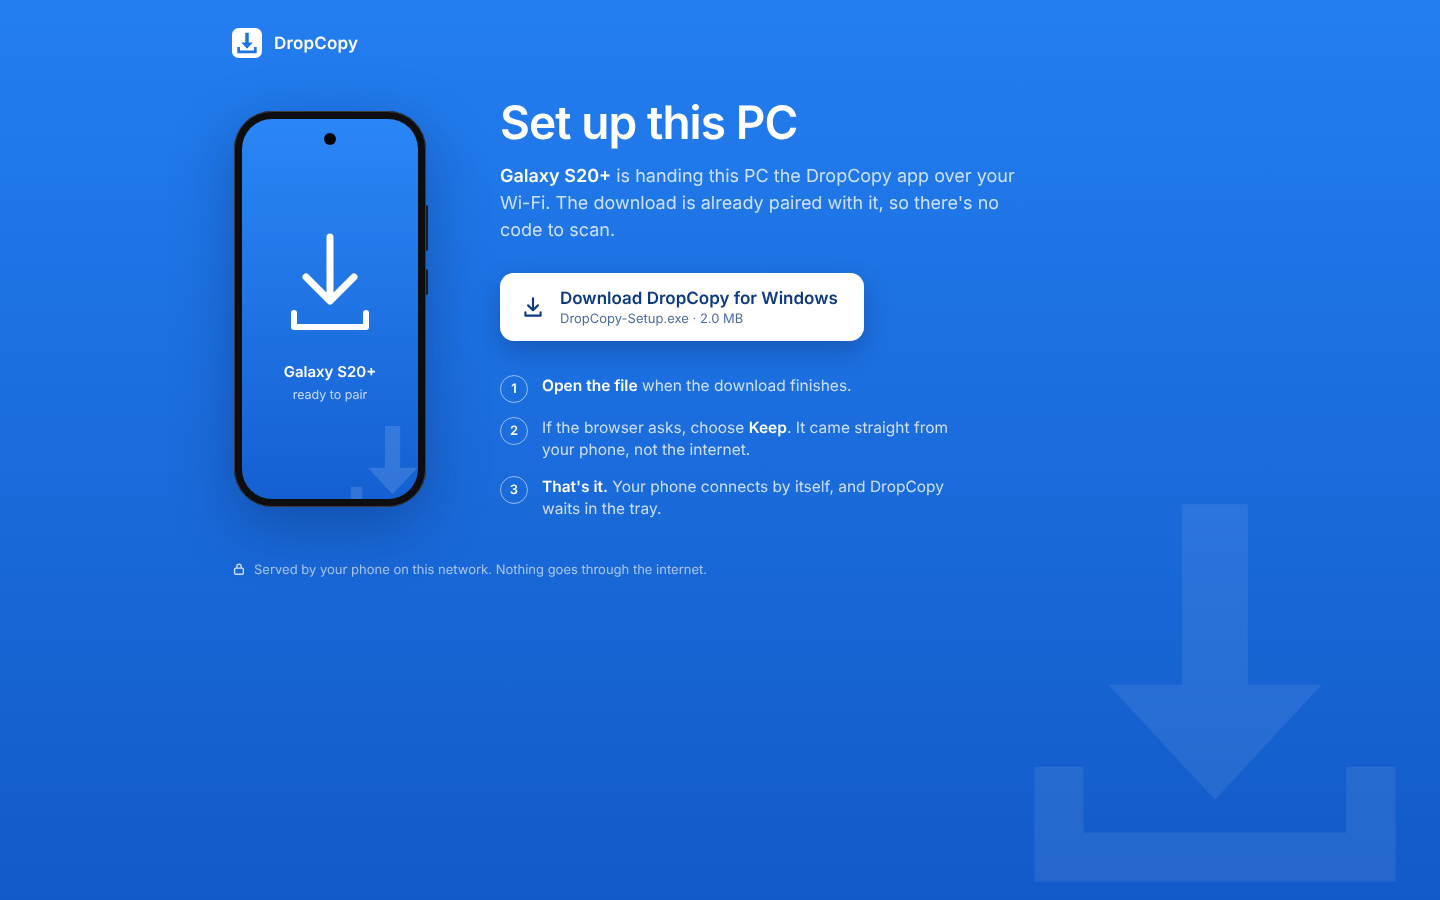
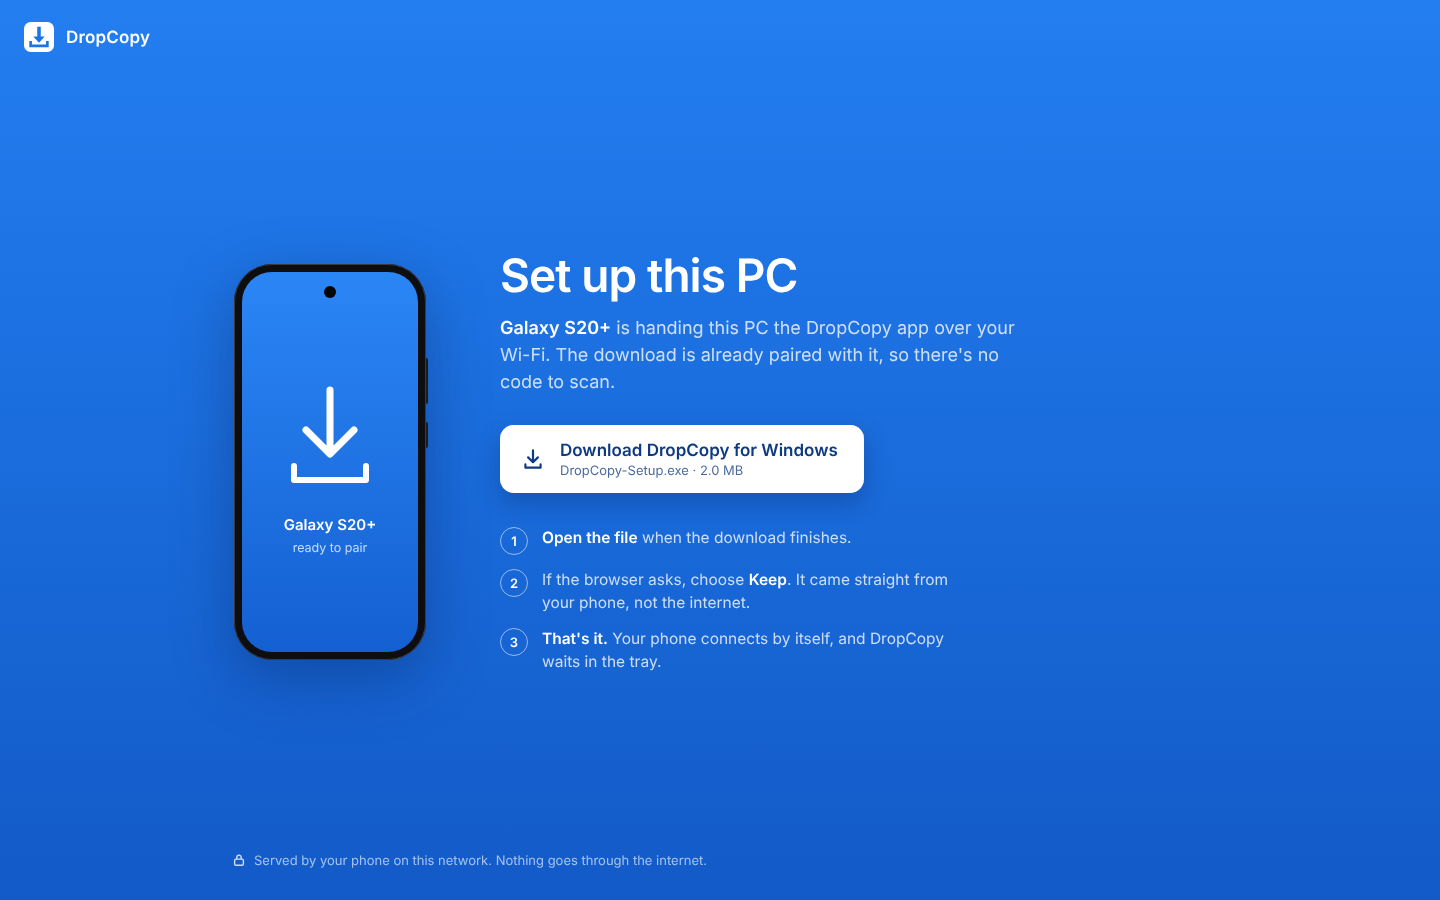
v0.5.1: phone-first PC setup, setup page, user preferences
- The logo on the phones' blue screens is small, whole and inset in the
  bottom-right corner (a test holds it there, never cut by an edge).
- The setup page: no faded logos; "DropCopy" in the window's top-left
  corner; content centred.
- docs/user-preferences.md: the owner's design and working decisions.
- Stress tests delete their folders when they finish (a full disk from
  leftover 512 MB test videos failed a run).
- Checked under Wine end to end: the phone side served the real Windows
  app, a fresh PC ran it and took the phone's key with no code, showed
  the reconnect phone, and a photo from the phone arrived.

Claude-Session: https://claude.ai/code/session_01BFAQV6g6aancpsLPcvuigK

diff --git a/android/app/src/main/assets/pc-setup.html b/android/app/src/main/assets/pc-setup.html
@@ -24,17 +24,16 @@
     -webkit-font-smoothing: antialiased;
     overflow-x: hidden;
   }
-  /* The logo, large and faint in the corner, as in the app's setup window. */
-  .corner {
-    position: fixed; right: -6vmin; bottom: -8vmin;
-    width: 62vmin; height: 62vmin; opacity: 0.08; pointer-events: none;
-  }
   .page {
-    position: relative; min-height: 100%;
+    position: relative; min-height: 100vh;
     display: flex; flex-direction: column;
-    max-width: 1040px; margin: 0 auto; padding: 28px 32px 32px;
+    max-width: 1040px; margin: 0 auto; padding: 72px 32px 32px; /* room under the corner name */
   }
-  header { display: flex; align-items: center; gap: 12px; font-size: 17px; font-weight: 600; letter-spacing: 0.01em; }
+  /* The app's name in the window's top-left corner, a small gap from the edges. */
+  header {
+    position: fixed; top: 22px; left: 24px; z-index: 1;
+    display: flex; align-items: center; gap: 12px; font-size: 17px; font-weight: 600; letter-spacing: 0.01em;
+  }
   header svg { width: 30px; height: 30px; }
   main {
     flex: 1; display: grid; grid-template-columns: auto 1fr; gap: 72px;
@@ -84,11 +83,6 @@
 </style>
 </head>
 <body>
-  <!-- The app's mark: an arrow dropping into a tray (same shapes as the app icon). -->
-  <svg class="corner" viewBox="20 19 68 68" aria-hidden="true">
-    <path fill="#fff" d="M50,30h8v22h9l-13,14l-13,-14h9z"/><path fill="#fff" d="M32,62h6v8h32v-8h6v14h-44z"/>
-  </svg>
-
   <div class="page">
     <header>
       <svg viewBox="20 19 68 68" aria-hidden="true">
@@ -99,7 +93,7 @@
     </header>
 
     <main>
-      <!-- The phone, as drawn in the app: dark body, blue screen, the mark in its corner. -->
+      <!-- The phone, as drawn in the app: dark body, blue screen. -->
       <svg class="phone" viewBox="0 0 196 400" role="img" aria-label="{{PHONE}}">
         <defs>
           <linearGradient id="scr" x1="0" y1="0" x2="0" y2="1"><stop offset="0" stop-color="#2B86F5"/><stop offset="1" stop-color="#1460D2"/></linearGradient>
@@ -111,10 +105,6 @@
         <rect x="2.5" y="2.5" width="191" height="395" rx="37.5" fill="none" stroke="#3A3A40"/>
         <g clip-path="url(#clip)">
           <rect x="10" y="10" width="176" height="380" fill="url(#scr)"/>
-          <g opacity=".13" transform="translate(96 296) scale(1.9)">
-            <path fill="#fff" d="M50,30h8v22h9l-13,14l-13,-14h9z" transform="translate(-20 -19)"/>
-            <path fill="#fff" d="M32,62h6v8h32v-8h6v14h-44z" transform="translate(-20 -19)"/>
-          </g>
           <!-- A file dropping toward the PC. -->
           <g class="arrow" fill="none" stroke="#fff" stroke-width="7" stroke-linecap="round" stroke-linejoin="round">
             <path d="M98 128v62M74 168l24 24 24-24"/>

diff --git a/pc/src/setup_window.rs b/pc/src/setup_window.rs
@@ -68,8 +68,9 @@ pub fn logo_screen_faded(w: u32, h: u32, fade: f32) -> RgbaImage {
     let (fw, fh) = (w as f32, h as f32);
     // In the bottom-right corner, running off the edge, as in the big window: clear of whatever is
     // drawn in the middle (dots, the check, text). The glyph spans 32..76 of its 108-unit canvas.
-    let size = fw * 1.15;
-    let (ox, oy) = (fw * 1.08 - size * 76.0 / 108.0, fh + fw * 0.04 - size * 76.0 / 108.0);
+    // Small and whole, never cut by the screen's edge: glyph 34% of the width, inset from the corner.
+    let size = fw * 0.34 * 108.0 / 44.0;
+    let (ox, oy) = (fw * 0.88 - size * 76.0 / 108.0, fh - fw * 0.12 - size * 76.0 / 108.0);
     RgbaImage::from_fn(w, h, |x, y| {
         let g = y as f32 / fh;
         let c = over([0x23 as f32, 0x7E as f32, 0xF0 as f32], [0x12 as f32, 0x5A as f32, 0xC8 as f32], g);
@@ -491,6 +492,25 @@ mod imp {
 #[cfg(test)]
 mod tests {
     use super::*;
+
+    #[test]
+    fn the_screen_logo_sits_whole_inside_the_corner() {
+        for (w, h) in [(540u32, 1200u32), (140, 300), (18, 38)] {
+            let img = logo_screen_faded(w, h, 0.5);
+            let base = logo_screen_faded(w, h, 0.0);
+            let (mut x0, mut y0, mut x1, mut y1) = (w, h, 0, 0);
+            for (x, y, p) in img.enumerate_pixels() {
+                if p[0] != base.get_pixel(x, y)[0] {
+                    (x0, y0, x1, y1) = (x0.min(x), y0.min(y), x1.max(x), y1.max(y));
+                }
+            }
+            if w < 40 {
+                continue; // the tiny menu phone: a hint, too few pixels to measure
+            }
+            assert!(x1 < w - w / 20 && y1 < h - w / 20, "{w}x{h}: logo reaches the edge ({x1},{y1})");
+            assert!(x0 > w / 2 && y0 > h / 2, "{w}x{h}: logo should be in the bottom-right corner ({x0},{y0})");
+        }
+    }
 
     #[test]
     fn names_the_phone_when_it_says() {

diff --git a/android/app/src/test/java/dev/dropcopy/AppTest.java b/android/app/src/test/java/dev/dropcopy/AppTest.java
@@ -268,6 +268,7 @@ public class AppTest {
             java.net.HttpURLConnection page = (java.net.HttpURLConnection) new java.net.URL("http://127.0.0.1:" + PcSetup.PORT + "/").openConnection();
             String html = new String(readAll(page.getInputStream()), "UTF-8");
             assertTrue(html.contains("href=\"/DropCopy-Setup.exe\""));
+            assertTrue("no faded logo on the page (the user's call)", !html.contains("class=\"corner\"") && !html.contains("opacity=\".13\""));
             assertTrue("phone name filled in, escaped", html.contains("Galaxy &lt;S20+&gt;") && !html.contains("{{PHONE}}") && !html.contains("{{SIZE}}"));
             java.net.HttpURLConnection dl = (java.net.HttpURLConnection) new java.net.URL("http://127.0.0.1:" + PcSetup.PORT + "/DropCopy-Setup.exe").openConnection();
             assertTrue(dl.getHeaderField("Content-Disposition").contains("DropCopy-Setup.exe"));

diff --git a/pc/tests/stress.rs b/pc/tests/stress.rs
@@ -37,6 +37,13 @@ struct Rig {
     save_dir: PathBuf,
 }
 
+/// Each test's folder (a 512 MB video and its copy among them) goes when the test ends.
+impl Drop for Rig {
+    fn drop(&mut self) {
+        let _ = std::fs::remove_dir_all(&self.dir);
+    }
+}
+
 fn rig(name: &str) -> Rig {
     let dir = temp(name);
     let (mut cfg, _) = Config::load_or_create(dir.join("home")).unwrap();

diff --git a/docs/user-preferences.md b/docs/user-preferences.md
@@ -1,0 +1,44 @@
+# What the user wants: read before changing anything they will see
+
+DropCopy's owner tests every release on their own PC (ASUS Vivobook S 16, Windows, dark mode, Hebrew
+keyboard) and Galaxy S20+. These are their decisions; keep to them, and ask before departing from one.
+
+## How to work
+- **Show the result before releasing.** Build, test, send screenshots; publish a version only when they
+  say "release it" (or approve the screenshots).
+- Report plainly what was verified and what wasn't (Wine screenshots are not their real Windows).
+- Watch cost: they work on a limited budget. Stop cleanly and leave a written plan rather than stop
+  half-way through a change.
+
+## Look and feel
+- **No "AI slop."** No purple/neon gradients, glows, glassmorphism, or mono "hacker" styling. Premium
+  means restrained: the app's own blue (#237EF0 → #125AC8), white, one accent, real spacing.
+- **Stay loyal to the app's design** everywhere (PC windows, tray menu, web page): same blue, same phone
+  drawing (Galaxy S20+-like, punch-hole, side keys), same logo (arrow into a tray).
+- **The faded logo** belongs in the bottom-right corner, whole and small, never behind content and never
+  cut off by an edge. Not on the web page at all.
+- Text: Segoe UI Variable on Windows; titles semibold; muted secondary lines.
+- Sizes must look right on a 16" laptop at 150% scaling.
+
+## The PC side
+- The terminal is not the UI: a double-click never shows or flashes a console.
+- One small window-style UI: the tray icon's menu (rounded, light/dark with Windows, keyboard works).
+  Header: one phone drawing (the last connected), "DropCopy", and a status light: grey Offline,
+  green Connected, yellow Unstable, with the phone's name.
+- The big centred window only when there is a code to scan ("Scan me" above the phone with the code).
+  Reconnecting: a small phone rising above the tray (at DropCopy's tray icon), dots and
+  "Looking for your phone" on its screen, then a check and "Connected to Galaxy S20+".
+- The little phone in the middle of the taskbar is the Bluetooth feature only (bring the phone close →
+  newest photo, a temporary file). Normal sharing shows no popup: Ctrl+V is enough.
+- Updating by running a new exe must never leave two copies running.
+
+## The phone side
+- Clear, organised screens; buttons never look stitched together.
+- Settings that need the user (battery, notifications, photos, updates, maker auto-start) are listed in
+  one "Needs your OK" card, each with one button, shown only while missing.
+- Battery matters: nothing runs in the background unless a feature is on; Bluetooth only with the screen on.
+
+## Direction
+- Setup from either side with as little as possible to do: the phone can hand the PC the app (built);
+  scanning with the plain camera before the app is installed (planned, docs/roadmap.md).
+- Optional "Type it for me" over Bluetooth: noted, not decided.
